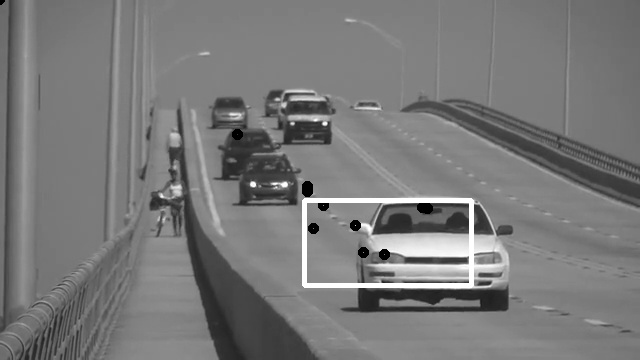
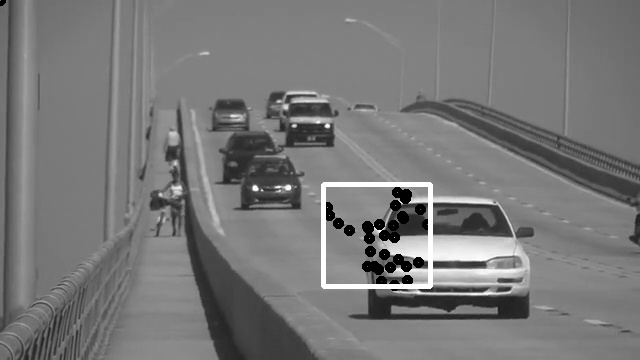
cur working version - but not so well

diff --git a/optical_flow.py b/optical_flow.py
@@ -17,23 +17,32 @@ def getFeatures(img,bbox):
         features: Coordinates of all feature points in first frame, (N, F, 2)
     Instruction: Please feel free to use cv2.goodFeaturesToTrack() or cv.cornerHarris()
         """
-    y1=np.ndarray.item(bbox[:,0,1])
-    y2=np.ndarray.item(bbox[:,1,1])
-    x1=np.ndarray.item(bbox[:,0,0])
-    x2=np.ndarray.item(bbox[:,1,0])
+    # y1=np.ndarray.item(bbox[:,0,1])
+    # y2=np.ndarray.item(bbox[:,1,1])
+    # x1=np.ndarray.item(bbox[:,0,0])
+    # x2=np.ndarray.item(bbox[:,1,0])
+    print("THIS IS BBOX SHPAE", bbox.shape)
+    y1 = int(bbox[0,1])
+    y2 = int(bbox[1,1])
+    x1 = int(bbox[0,0])
+    x2 = int(bbox[1,0])
     print("THIS IS IN GET FEATURES", y1, y2, x1, x2)
     mask = np.zeros(img.shape, dtype=np.uint8)
     mask[y1:y2, x1:x2] = 255
 
     features = cv2.goodFeaturesToTrack(img,30,0.01,10, mask=mask)
-    corners=np.int32(features)
+    #print("SHAPE OF FEATURES", features)
+    features_squeeze = features.reshape(-1, 2)
+    corners=np.int32(features_squeeze)
+    #print("THIS IS CONRENR", corners.shape)
     img_to_show = img.copy()
-    for i in corners:
-        x,y = i.ravel()
-        cv2.circle(img_to_show,(x,y),3,(0,0,255),3)
     
-    cv2.imwrite("result.jpg",img_to_show*255)
-    return features
+    #for (x,y) in corners:
+        #x,y = i.ravel()
+    #    cv2.circle(img_to_show,(x,y),3,(0,0,255),3)
+    
+    #cv2.imwrite("result.jpg",img_to_show*255)
+    return features_squeeze
 
 
 def estimateFeatureTranslation(feature, Ix, Iy, img1, img2):
@@ -51,8 +60,11 @@ def estimateFeatureTranslation(feature, Ix, Iy, img1, img2):
     """
     winsize=15
     s=(winsize+1)//2
-    x=np.ndarray.item(feature[:,0])
-    y=np.ndarray.item(feature[:,1])
+    #print("THIS IS FEATURES in ESTIM", feature.shape)
+    #x=np.ndarray.item(feature[:,0])
+    #y=np.ndarray.item(feature[:,1])
+    x = feature[0]
+    y = feature[1]
     win_l,win_r,win_t,win_b=getWinBound(img1.shape, x, y, winsize)
     
     x_1=np.linspace(win_l,win_r,winsize) #decimal coord patch image
@@ -86,6 +98,7 @@ def estimateAllTranslation(features, img1, img2):
         new_features: Coordinates of all feature points in second frame, (N, F, 2)
     """
     num_f=features.shape[0]
+    print("IN ESTIMATE ALL TRANS", features.shape, num_f)
     Ix,Iy=findGradient(img2)
     new_features =[]
     for idx in range(num_f):
@@ -105,9 +118,61 @@ def applyGeometricTransformation(frame, features, new_features, bbox):
         bbox: Top-left and bottom-right corners of all bounding boxes, (F, 2, 2)
     Instruction: Please feel free to use skimage.transform.estimate_transform()
     """
+    print("THIS IS FEATURES", features)
+   # print("AT APPLY GEOMETRIC", new_features.shape)
+    dist_thresh = 8
+    # filter out 0,0s 
+    #print("THIS IS SIZE NEW_ FEAT", new_features.shape) #30,2
+    non_zero_mask = np.logical_or(features[:,0] > 1, features[ :,1]>1)
+    print("NON ZERO MASK", new_features[:, 0], non_zero_mask)
+    new_features = new_features[non_zero_mask]
+    features = features[non_zero_mask]
+    print("THIS IS NEW _FEAUTES", new_features)
     num_features = features.shape[0]
+    print("THIS IS NUM_ FEATURES", num_features)
+
+    if num_features < 30*0.4:
+        get_new_feat = getFeatures(frame, bbox)
+        print("!!!!!!BEFORE NEW FEAT", new_features.shape, get_new_feat.shape)
+        new_features = np.concatenate((new_features, get_new_feat), axis=0)
+        features = np.concatenate((features, get_new_feat), axis=0)
+        print("THIS IS NEW FEATURES!!!!!!!", new_features.shape)
+        num_features= features.shape[0]
+
+    transform = SimilarityTransform()
+    transformation = transform.estimate(features, new_features)
+    if transformation:
+        homoMatrix = transform.params
+        transformed_features = matrix_transform(features, homoMatrix)
+    for idx in range(num_features):
+        transformed_point = transformed_features[idx]
+        new_point = new_features[idx]
+        dist_btw_points = math.sqrt((transformed_point[0]- new_point[0])**2 + (transformed_point[1] - new_point[1])**2)
+        if dist_btw_points > dist_thresh:
+            new_features[idx,:] = np.array([0, 0])
+
+    #print("THIS IS BBOX", bbox, bbox.shape)
+    if transformation:
+        # bbox (n, 2, 2) currently setting idx to 0
+        bbox = matrix_transform(bbox, homoMatrix)
+    #print("THIS IS NEW BBOX", bbox)
+    #new_bbox = new_bbox.reshape(1, 2, 2)
+    #filterout 
+    # may want to filter out 
+    if idx in range(num_features):
+        new_bbox_x1 = bbox[0][0]
+        new_bbox_y1 = bbox[0][1]
+        new_bbox_x2 = bbox[1][0]
+        new_bbox_y2 = bbox[1][1]
+        #print("THIS IS NEW BBOX X1 to Y2", new_bbox_x1, new_bbox_x2, new_bbox_y1, new_bbox_y2)
+        if new_features[idx][0] < new_bbox_x1 or new_features[idx][1] < new_bbox_y1 or new_features[idx][0] > new_bbox_x2 or new_features[idx][1] > new_bbox_y2:
+            new_features[idx] = [0, 0]
+   #new_bbox = new_bbox.reshape(-1, 2, 2)
+    #print("RETURNED NEW BBOX", bbox, new_features)
+    return new_features, bbox
+            
+    """
     tmp_features = features.reshape((num_features, -1)) #5,2
-    print("shape",tmp_features.shape)
     tmp_new_features = new_features.reshape((num_features,-1)) #5,2
     tmp_bbox = bbox.reshape(2,-1)
     dist_thresh = 8
@@ -119,9 +184,7 @@ def applyGeometricTransformation(frame, features, new_features, bbox):
         if dist_btw_points > dist_thresh:
             tmp_features[idx,:] = np.array([0, 0])
             tmp_new_features[idx,:] = np.array([0, 0])
-                #print("TMP_FEATURES",tmp_features)
 
-                #print("TMP_NEW_FEATURES",tmp_new_features)
     mask=np.logical_or(tmp_features[:,0]>0,tmp_features[:,1]>0)
     tmp_tmp_features = tmp_features[mask,:]
     tmp_tmp_new_features=tmp_new_features[mask,:]
@@ -134,8 +197,8 @@ def applyGeometricTransformation(frame, features, new_features, bbox):
         new_bbox = matrix_transform(tmp_bbox, homoMatrix)
     else:
         new_bbox = tmp_bbox
-
-    features, bbox = tmp_new_features.reshape(1,num_features,-1), new_bbox.reshape(1,2,2)
+    
+    features, bbox = tmp_new_features.reshape(num_features,1,-1), new_bbox.reshape(1,2,2)
 
     if len(tmp_tmp_new_features) < num_features * 0.6:
         bbox = bbox.reshape(1, 2, 2)
@@ -145,4 +208,4 @@ def applyGeometricTransformation(frame, features, new_features, bbox):
 
     return features, bbox
 
-
+    """

diff --git a/main.py b/main.py
@@ -29,35 +29,41 @@ def objectTracking(rawVideo):
         if frame_cnt == 1:
             x,y,w,h=np.int32(cv2.selectROI("roi",frame,fromCenter=False))
             print(x,y,w,h)
-            bbox = np.zeros((1,2,2),dtype=int)
-            bbox[:,0,0]=x
-            bbox[:,0,1]=y
-            bbox[:,1,0]=x+w
-            bbox[:,1,1]=y+h
+            bbox = np.zeros((2,2),dtype=int)
+            bbox[0,0]=x
+            bbox[0,1]=y
+            bbox[1,0]=x+w
+            bbox[1,1]=y+h
             features = getFeatures(frame, bbox)
             frame_old = frame.copy()
+            frame_to_show = frame.copy()
+            for i in features:
+                x, y = i.ravel()
+                x = int(x)
+                y =int(y)
+                cv2.circle(frame_to_show,(x,y),3,(0,0,255),2)
         
         else:
             if frame_cnt % 10 ==0:
                 new_features = estimateAllTranslation(features, frame_old, frame)
                 
                 tmp_new_features, bbox = applyGeometricTransformation(frame, features, new_features, bbox)
-                print("BBOX IN MAIN", bbox)
-                bbox = bbox.reshape(2,2)
+                print("BBOX IN MAIN", tmp_new_features.shape, bbox, bbox.shape, type(bbox))
+                #bbox = bbox.reshape(2,2)
                 start_point = tuple(bbox[0].astype(int))
                 end_point = tuple(bbox[1].astype(int))
                 
                 frame_old = frame.copy()
                 vis = frame.copy()
                 
-                new_frame_to_show = frame_old.copy()
-                for i in new_features:
+                new_frame_to_show = frame.copy()
+                for i in tmp_new_features:
                     x,y = i.ravel()
                     x = int(x)
                     y =int(y)
-                    cv2.circle(new_frame_to_show,(x,y),3,(0,0,255),3)
+                    cv2.circle(new_frame_to_show,(x,y),3,(0,0,255),2)
                 
-                cv2.rectangle(new_frame_to_show, start_point, end_point, (255,0,0), 3)
+                cv2.rectangle(new_frame_to_show, start_point, end_point, (255,0,0), 2)
                 cv2.imwrite("result_{}.jpg".format(frame_cnt), new_frame_to_show*255)
 
                 features = tmp_new_features
